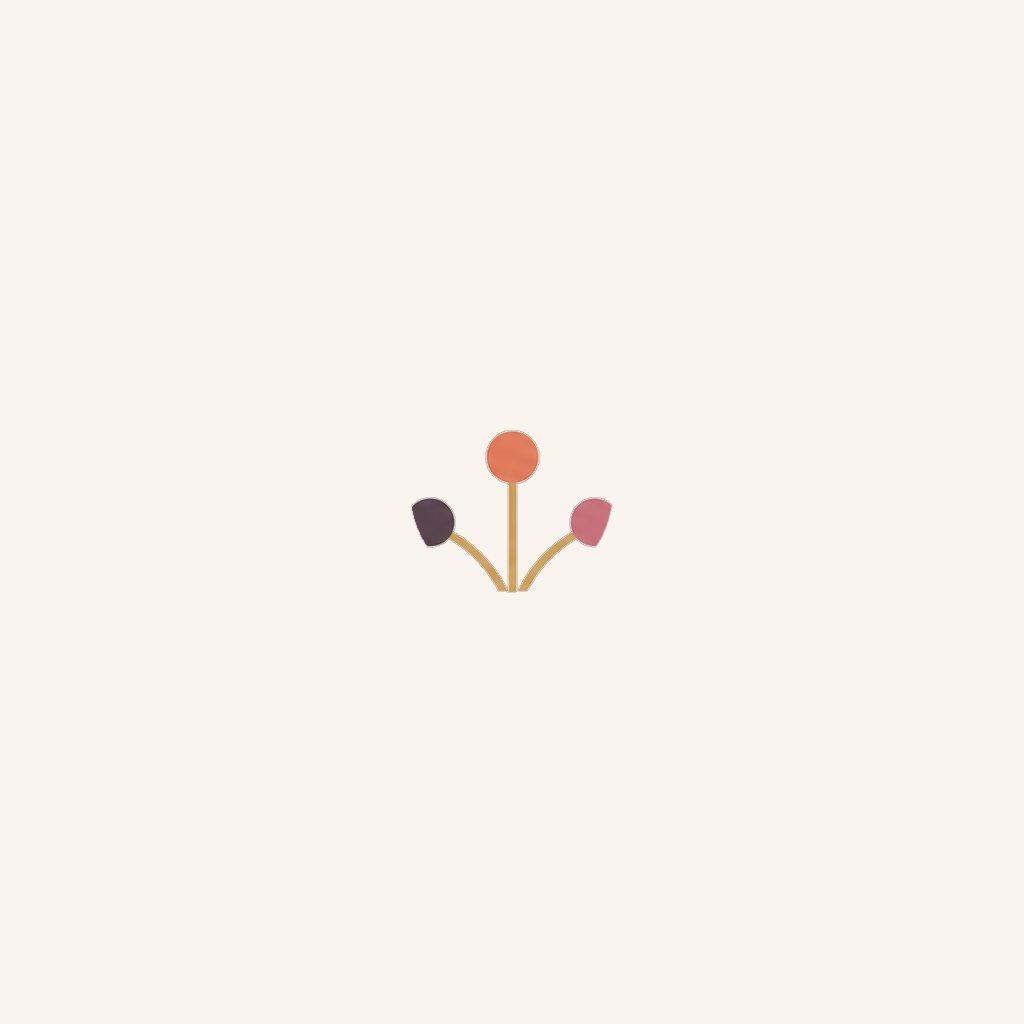
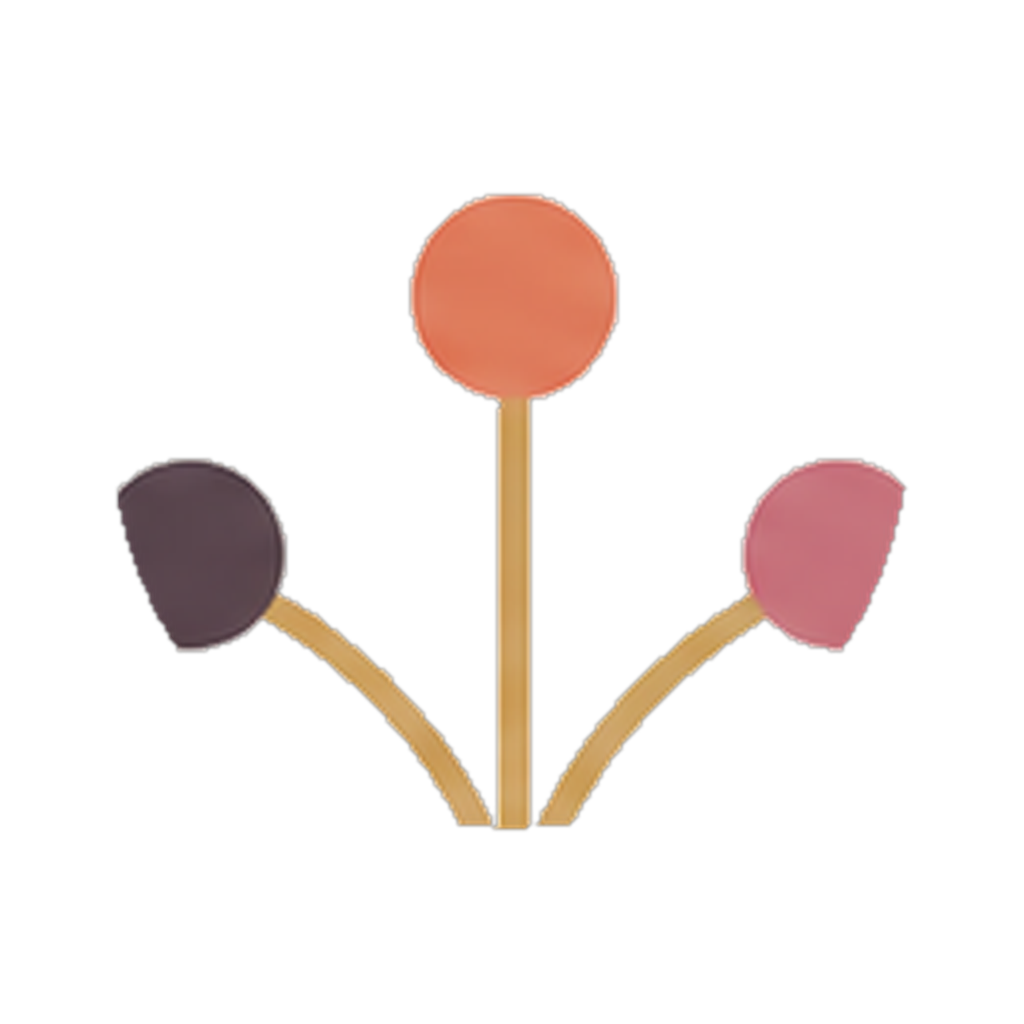
chore: refresh brand assets and splash screens

Changed region(s): [[0.0938, 0.1875, 0.9062, 0.8125]]

diff --git a/src/ui/BrandMark.js b/src/ui/BrandMark.js
@@ -7,6 +7,7 @@ import { space, useTheme } from './theme';
 export default function BrandMark({
   size = 112,
   showWordmark = false,
+  fillFrame = false,
   tone = 'light',
   style,
 }) {
@@ -14,12 +15,16 @@ export default function BrandMark({
   const wordmarkColor = tone === 'dark' ? theme.colors.bg : theme.semantic.primary;
 
   return (
-    <View style={[styles.root, style]}>
+    <View style={[styles.root, !showWordmark && { width: size, height: size }, style]}>
       <Image
-        source={require('../../assets/brand/logo-mark-flat.png')}
+        source={
+          fillFrame
+            ? require('../../assets/brand/logo-mark-circle.png')
+            : require('../../assets/brand/logo-mark.png')
+        }
         style={{ width: size, height: size }}
         resizeMode="contain"
-        accessibilityLabel="Our Little World rooted sprout mark"
+        accessibilityLabel="Our Little World logo"
         fadeDuration={0}
       />
 

diff --git a/src/WelcomeScreen.js b/src/WelcomeScreen.js
@@ -130,7 +130,7 @@ export default function WelcomeScreen() {
         <Animated.View
           style={[styles.brandWrap, { opacity: brandO }]}
         >
-          <BrandMark size={logoSize} />
+          <BrandMark size={logoSize} fillFrame />
           <Spacer h={2} />
           <Brand align="center">our little world</Brand>
         </Animated.View>

diff --git a/src/LaunchScreen.js b/src/LaunchScreen.js
@@ -135,7 +135,7 @@ export default function LaunchScreen({ onDone }) {
             },
           ]}
         >
-          <BrandMark size={280} showWordmark />
+          <BrandMark size={280} showWordmark fillFrame />
         </Animated.View>
       </View>
     </Animated.View>

diff --git a/scripts/generate-brand-assets.py b/scripts/generate-brand-assets.py
@@ -1,20 +1,24 @@
 #!/usr/bin/env python3
-"""Regenerate brand PNGs: sprout-only mark (no ring), centered splash/icon."""
+"""Regenerate brand PNGs: centered app icon, splash, and launch assets."""
 
 from __future__ import annotations
 
+import json
 import math
 from pathlib import Path
 
 from PIL import Image, ImageFilter
+from PIL import ImageDraw
 
 ROOT = Path(__file__).resolve().parents[1]
 BRAND = ROOT / "assets" / "brand"
 MARK_SOURCE = BRAND / "logo-mark.png"
 
 BG = (250, 244, 238, 255)  # #FAF4EE (hearth bg / launch screen)
+DARK_BG = (26, 19, 14, 255)  # #1A130E
 # Keep the interior sprout; drop the ring stroke and outer halo discs.
 INNER_RADIUS = 0.395
+IOS_ASSETS = ROOT / "ios" / "OurLittleWorld" / "Images.xcassets"
 
 
 def color_dist(a, b):
@@ -61,11 +65,101 @@ def extract_mark(im: Image.Image) -> Image.Image:
     return rgba.crop(bbox)
 
 
+def scaled_to_fit(image: Image.Image, target: int) -> Image.Image:
+    scale = target / max(image.width, image.height)
+    width = max(1, round(image.width * scale))
+    height = max(1, round(image.height * scale))
+    return image.resize((width, height), Image.Resampling.LANCZOS)
+
+
+def visual_bbox(image: Image.Image, bg=BG):
+    rgba = image.convert("RGBA")
+    pixels = rgba.load()
+    alpha = Image.new("L", rgba.size, 0)
+    alpha_pixels = alpha.load()
+
+    for y in range(rgba.height):
+        for x in range(rgba.width):
+            r, g, b, a = pixels[x, y]
+            if a >= 12 and color_dist((r, g, b), bg[:3]) >= 18:
+                alpha_pixels[x, y] = 255
+
+    return alpha.getbbox()
+
+
+def crop_visual(image: Image.Image, bg=BG) -> Image.Image:
+    rgba = image.convert("RGBA")
+    bbox = visual_bbox(rgba, bg)
+    if not bbox:
+        raise RuntimeError("Could not find visual bounds in source image")
+    return rgba.crop(bbox)
+
+
+def transparent_logo(image: Image.Image) -> Image.Image:
+    rgba = image.convert("RGBA")
+    pixels = rgba.load()
+
+    for y in range(rgba.height):
+        for x in range(rgba.width):
+            r, g, b, a = pixels[x, y]
+            if is_background(r, g, b, a):
+                pixels[x, y] = (0, 0, 0, 0)
+
+    alpha = rgba.split()[3].filter(ImageFilter.GaussianBlur(radius=0.35))
+    alpha = alpha.point(lambda v: 0 if v < 8 else v)
+    rgba.putalpha(alpha)
+
+    bbox = alpha.getbbox()
+    if not bbox:
+        raise RuntimeError("Could not find transparent logo bounds in source image")
+    return rgba.crop(bbox)
+
+
+def crop_primary_ring_logo(image: Image.Image, padding: int = 10) -> Image.Image:
+    rgba = image.convert("RGBA")
+    orange = []
+
+    for y in range(rgba.height):
+        for x in range(rgba.width):
+            r, g, b, a = rgba.getpixel((x, y))
+            if a > 20 and r > 150 and 45 < g < 150 and b < 130:
+                orange.append((x, y))
+
+    if not orange:
+        raise RuntimeError("Could not find primary logo ring in source image")
+
+    left = min(x for x, _ in orange)
+    top = min(y for _, y in orange)
+    right = max(x for x, _ in orange) + 1
+    bottom = max(y for _, y in orange) + 1
+    cx = (left + right) / 2
+    cy = (top + bottom) / 2
+    side = max(right - left, bottom - top) + padding * 2
+    crop_box = (
+        round(cx - side / 2),
+        round(cy - side / 2),
+        round(cx + side / 2),
+        round(cy + side / 2),
+    )
+
+    cropped = Image.new("RGBA", (crop_box[2] - crop_box[0], crop_box[3] - crop_box[1]), (0, 0, 0, 0))
+    cropped.alpha_composite(rgba, (-crop_box[0], -crop_box[1]))
+
+    mask = Image.new("L", cropped.size, 0)
+    draw = ImageDraw.Draw(mask)
+    inset = 1
+    draw.ellipse(
+        (inset, inset, cropped.width - inset - 1, cropped.height - inset - 1),
+        fill=255,
+    )
+    cropped.putalpha(Image.composite(cropped.getchannel("A"), Image.new("L", cropped.size, 0), mask))
+    return cropped
+
+
 def fit_on_canvas(mark: Image.Image, size: int, fill: float = 0.78, bg=BG) -> Image.Image:
     canvas = Image.new("RGBA", (size, size), bg)
     target = int(size * fill)
-    mark_copy = mark.copy()
-    mark_copy.thumbnail((target, target), Image.Resampling.LANCZOS)
+    mark_copy = scaled_to_fit(mark, target)
     x = (size - mark_copy.width) // 2
     y = (size - mark_copy.height) // 2
     canvas.paste(mark_copy, (x, y), mark_copy)
@@ -73,33 +167,138 @@ def fit_on_canvas(mark: Image.Image, size: int, fill: float = 0.78, bg=BG) -> Im
 
 
 def splash_canvas(mark: Image.Image, size: int = 800, fill: float = 0.76) -> Image.Image:
-    """Square native splash sized so imageWidth maps closely to the mark (not tiny padding)."""
+    """Square native splash sized so imageWidth maps closely to the logo."""
     canvas = Image.new("RGBA", (size, size), BG)
     target = int(size * fill)
-    mark_copy = mark.copy()
-    mark_copy.thumbnail((target, target), Image.Resampling.LANCZOS)
+    mark_copy = scaled_to_fit(mark, target)
     x = (size - mark_copy.width) // 2
     y = (size - mark_copy.height) // 2
     canvas.paste(mark_copy, (x, y), mark_copy)
     return canvas
 
 
+def write_ios_splash_contents(splash_dir: Path):
+    dark_appearance = [{"appearance": "luminosity", "value": "dark"}]
+    images = []
+    for scale, suffix in [(1, ""), (2, "@2x"), (3, "@3x")]:
+        images.append({
+            "idiom": "universal",
+            "filename": f"image{suffix}.png",
+            "scale": f"{scale}x",
+        })
+    for scale, suffix in [(1, ""), (2, "@2x"), (3, "@3x")]:
+        images.append({
+            "idiom": "universal",
+            "appearances": dark_appearance,
+            "filename": f"dark_image{suffix}.png",
+            "scale": f"{scale}x",
+        })
+
+    (splash_dir / "Contents.json").write_text(
+        json.dumps(
+            {
+                "images": images,
+                "info": {"version": 1, "author": "expo"},
+            },
+            indent=2,
+        )
+        + "\n"
+    )
+
+
+def write_ios_color_contents(colors_dir: Path):
+    colors = [
+        {
+            "color": {
+                "components": {
+                    "alpha": "1.000",
+                    "blue": "0.933333333333333",
+                    "green": "0.956862745098039",
+                    "red": "0.980392156862745",
+                },
+                "color-space": "srgb",
+            },
+            "idiom": "universal",
+        },
+        {
+            "color": {
+                "components": {
+                    "alpha": "1.000",
+                    "blue": "0.054901960784314",
+                    "green": "0.074509803921569",
+                    "red": "0.101960784313725",
+                },
+                "color-space": "srgb",
+            },
+            "idiom": "universal",
+            "appearances": [{"appearance": "luminosity", "value": "dark"}],
+        },
+    ]
+    colors_dir.mkdir(parents=True, exist_ok=True)
+    (colors_dir / "Contents.json").write_text(
+        json.dumps(
+            {
+                "colors": colors,
+                "info": {"version": 1, "author": "expo"},
+            },
+            indent=2,
+        )
+        + "\n"
+    )
+
+
+def write_ios_copies(app_icon: Image.Image, splash: Image.Image, dark_splash: Image.Image):
+    app_icon_dir = IOS_ASSETS / "AppIcon.appiconset"
+    splash_dir = IOS_ASSETS / "SplashScreenLogo.imageset"
+    colors_dir = IOS_ASSETS / "SplashScreenBackground.colorset"
+
+    if app_icon_dir.exists():
+        app_icon.resize((1024, 1024), Image.Resampling.LANCZOS).convert("RGB").save(
+            app_icon_dir / "App-Icon-1024x1024@1x.png"
+        )
+
+    if splash_dir.exists():
+        for scale, suffix in [(1, ""), (2, "@2x"), (3, "@3x")]:
+            splash.resize((280 * scale, 280 * scale), Image.Resampling.LANCZOS).convert(
+                "RGB"
+            ).save(splash_dir / f"image{suffix}.png")
+            dark_splash.resize((280 * scale, 280 * scale), Image.Resampling.LANCZOS).convert(
+                "RGB"
+            ).save(splash_dir / f"dark_image{suffix}.png")
+        write_ios_splash_contents(splash_dir)
+
+    if colors_dir.exists():
+        write_ios_color_contents(colors_dir)
+
+
 def main():
-    mark = extract_mark(Image.open(MARK_SOURCE))
+    source = Image.open(MARK_SOURCE)
+    mark = extract_mark(source)
+    app_icon_mark = crop_visual(source)
+    transparent_mark = transparent_logo(source)
+    ring_logo = crop_primary_ring_logo(source)
 
     flat_hires = fit_on_canvas(mark, 1024, fill=0.82, bg=(0, 0, 0, 0))
     flat = flat_hires.resize((512, 512), Image.Resampling.LANCZOS)
     flat.save(BRAND / "logo-mark-flat.png")
 
-    icon = fit_on_canvas(mark, 1024, fill=0.78)
+    header_logo = fit_on_canvas(ring_logo, 512, fill=1.0, bg=(0, 0, 0, 0))
+    header_logo.save(BRAND / "logo-mark-circle.png")
+
+    icon = fit_on_canvas(app_icon_mark, 1024, fill=0.86)
     icon_rgb = icon.convert("RGB")
     icon_rgb.save(BRAND / "icon.png")
-    icon_rgb.save(BRAND / "adaptive-icon.png")
 
-    splash = splash_canvas(mark, 800, fill=0.76)
+    adaptive_icon = fit_on_canvas(mark, 1024, fill=0.78, bg=(0, 0, 0, 0))
+    adaptive_icon.save(BRAND / "adaptive-icon.png")
+
+    splash = splash_canvas(app_icon_mark, 800, fill=0.76)
     splash.convert("RGB").save(BRAND / "splash.png")
+    dark_splash = fit_on_canvas(transparent_mark, 800, fill=0.62, bg=DARK_BG)
+    dark_splash.convert("RGB").save(BRAND / "splash-dark.png")
+    write_ios_copies(icon, splash, dark_splash)
 
-    print("Wrote logo-mark-flat.png, icon.png, adaptive-icon.png, splash.png")
+    print("Wrote brand PNGs and native iOS icon/splash copies")
 
 
 if __name__ == "__main__":
